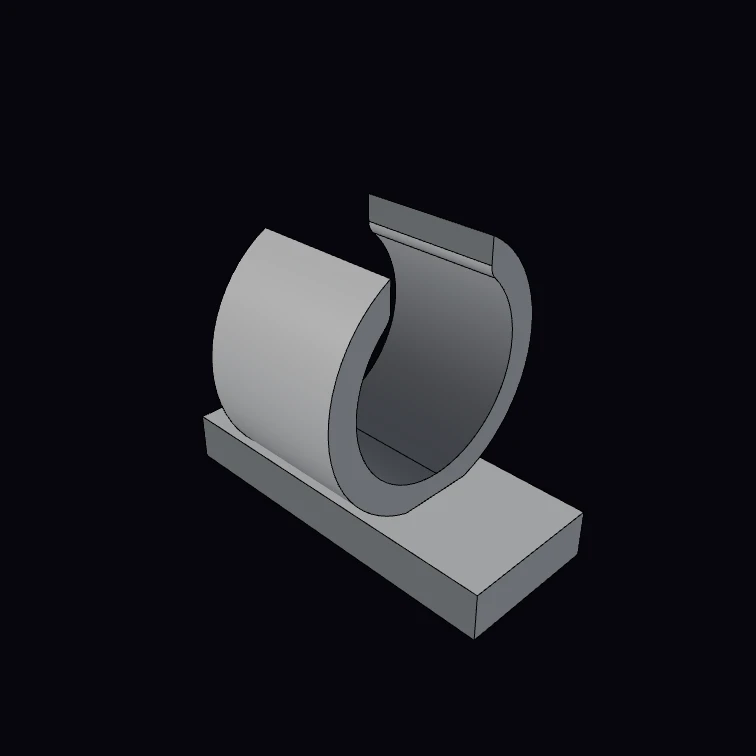
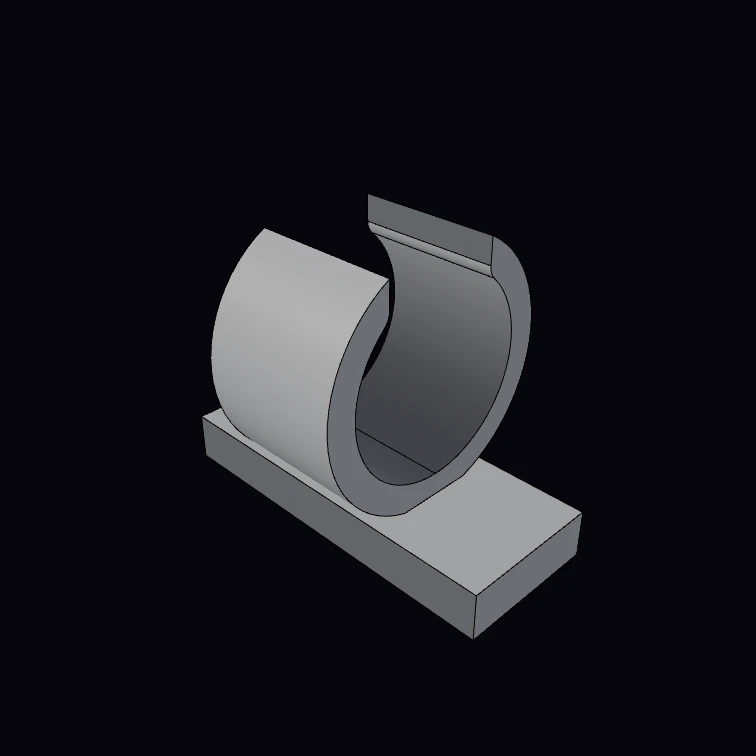
fix(playground): fillet conduit-clip lip on the validated solid (Greptile)
lipEdges were found on cRing but the fillet ran on ringSolid = validSolid(cRing),
a different OCCT shape handle, so the lip fillet was silently skipped (it still
passed eval+mesh and looked fine). Reorder to match the sibling pClamp: validSolid
first, find the edges on the validated shape, then fillet it.

The lip is now actually rounded (thumbnail regenerated, md5 changed). Type guard
44/44, eval+mesh 348/348. Addresses the Greptile P1 on #1469.

diff --git a/apps/playground/src/lib/examples/mechanical.ts b/apps/playground/src/lib/examples/mechanical.ts
@@ -2816,12 +2816,15 @@ function conduitClip(
   // Round the two mouth lips so they read as smooth snap catches, not sharp
   // corners. The X-running edges sitting one bore-radius from the ring axis are
   // the lip tips at the slot walls.
-  const lipEdges = edgeFinder().inDirection('X').atDistance(rBore, [0, 0, ringZ]).findAll(cRing);
   const ringSolid = unwrap(validSolid(cRing));
+  const lipEdges = edgeFinder()
+    .inDirection('X')
+    .atDistance(rBore, [0, 0, ringZ])
+    .findAll(ringSolid);
   const ring =
     lipEdges.length > 0
       ? unwrap(fillet(ringSolid, lipEdges, Math.min(wall * 0.6, mouthW / 4)))
-      : cRing;
+      : ringSolid;
 
   // Mounting foot: a flat slab under the ring, its top rising 1 mm into the ring
   // wall so the two weld into one solid (a face-tangent foot would float off).
